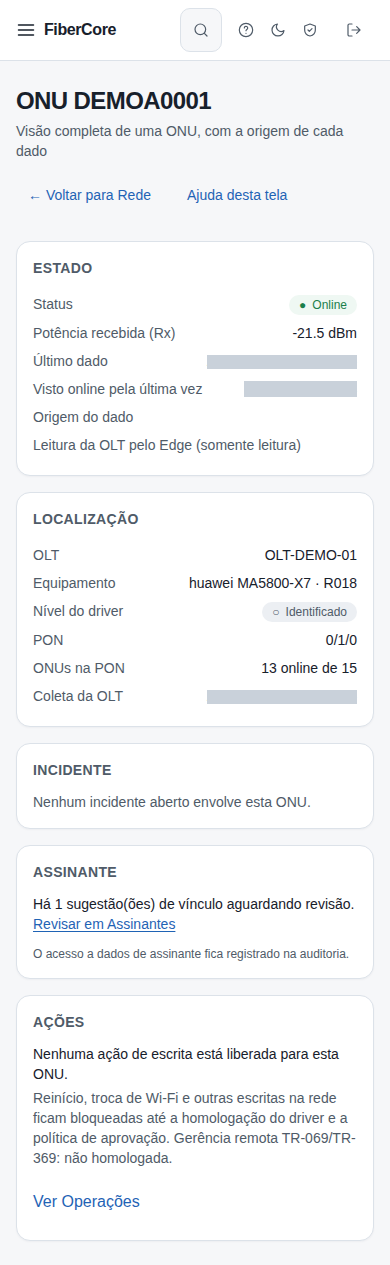
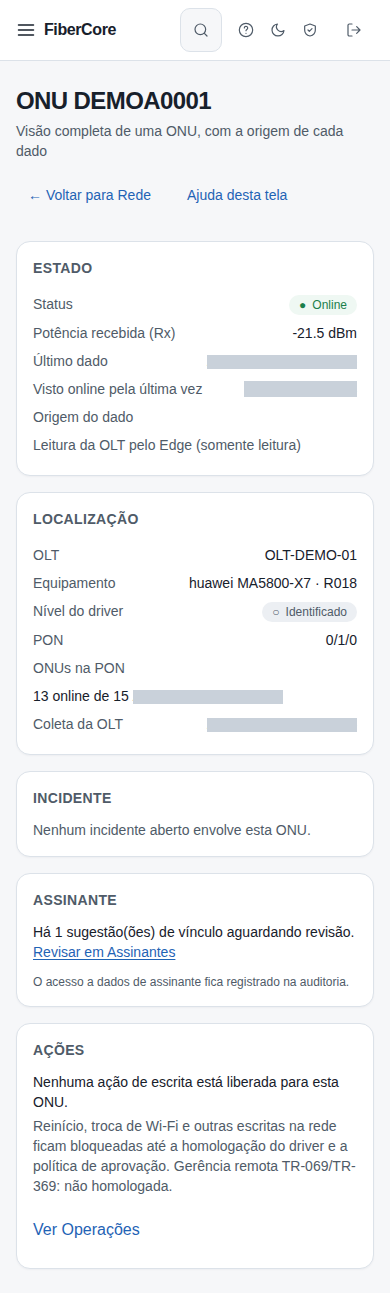
fix(api,web): contagem da PON na ONU 360 carrega a idade do dado (último estado conhecido)
Parecer do Codex (rodada 3).

Claude-Session: https://claude.ai/code/session_01G65B8a86N96ZoCrjd2Ad9b

diff --git a/apps/web/src/app/rede/onu/[id]/page.tsx b/apps/web/src/app/rede/onu/[id]/page.tsx
@@ -50,7 +50,7 @@ export default async function Onu360Page({ params }: { params: Promise<{ id: str
             <Row k="Equipamento">{o.olt.vendor} {o.olt.model ?? ""}{o.olt.firmware ? ` · ${o.olt.firmware}` : ""}</Row>
             <Row k="Nível do driver"><StatusPill value={o.olt.support_level} /></Row>
             <Row k="PON">{o.pon?.path ?? "—"}</Row>
-            {o.pon && <Row k="ONUs na PON">{o.pon.online} online de {o.pon.onus}</Row>}
+            {o.pon && <Row k="ONUs na PON"><span>{o.pon.online} online de {o.pon.onus}</span> <DataFreshness freshness={o.pon.freshness} observedAt={o.pon.observed_at} />{o.pon.freshness === "stale" && <span className="block text-xs text-warn">Último estado conhecido, não o atual.</span>}</Row>}
             <Row k="Coleta da OLT"><DataFreshness freshness={o.olt.freshness} observedAt={o.olt.observed_at} /></Row>
           </dl>
         </Card>

diff --git a/apps/web/src/lib/types.ts b/apps/web/src/lib/types.ts
@@ -11,7 +11,7 @@ export type Onu360 = {
   id: string; serial: string; status: string; rx_dbm: number | null; observed_at: string | null; freshness: string;
   last_online_at: string | null; down_since: string | null; source: string;
   olt: { id: string; name: string; vendor: string; model: string | null; firmware: string | null; support_level: string; observed_at: string | null; freshness: string };
-  pon: { path: string | null; onus: number; online: number } | null;
+  pon: { path: string | null; onus: number; online: number; observed_at: string | null; freshness: string } | null;
   incident: { id: string; kind: string; suspected_cause: string; opened_at: string } | null; incident_hidden: boolean;
 };
 export type OnuCustomer = { association: "approved" | "suggested" | "none"; pending_suggestions: number; display_name?: string; document_last4?: string | null; contract_status?: string };

diff --git a/apps/api/tests/test_onu360.py b/apps/api/tests/test_onu360.py
@@ -1,7 +1,7 @@
 """ONU 360: one ONU with its origin, PON context, open incident and (only for customers:read roles, audited) its subscriber."""
 from sqlalchemy import text
 
-from tests.conftest import agent, hdr, snap
+from tests.conftest import _now, agent, hdr, snap
 
 
 def _onu(client, h, serial):
@@ -29,7 +29,7 @@ def test_onu360_basic_with_pon_context_and_origin(client, seed, inv):
     d = client.get(f"/v1/onus/{u['id']}", headers=h).json()
     assert d["serial"] == "O360-1" and d["status"] == "online" and d["rx_dbm"] == -19.25 and d["freshness"] == "fresh"
     assert d["olt"]["name"] == "OLT-360" and d["olt"]["support_level"] == "observed"
-    assert d["pon"] == {"path": "0/3/0", "onus": 2, "online": 1}
+    assert (d["pon"]["path"], d["pon"]["onus"], d["pon"]["online"], d["pon"]["freshness"]) == ("0/3/0", 2, 1, "fresh")
     assert d["incident"] is None and d["incident_hidden"] is False and d["source"] == "olt_snapshot"
     assert "customer" not in d  # personal data never rides on the inventory route
 
@@ -96,3 +96,12 @@ def test_onu360_open_incident_and_tenant_isolation(client, seed, inv, migrated):
     assert client.get("/v1/onus/00000000-0000-0000-0000-000000000000", headers=ha).status_code == 404
     assert client.get("/v1/onus/not-a-uuid", headers=ha).status_code == 422
     assert client.get(f"/v1/onus/{onu['id']}", headers=agent(client, inv, "a1")).status_code == 403  # agents never read
+
+
+def test_pon_counts_carry_their_age_so_stale_is_not_shown_as_current(client, seed, inv):
+    old = snap(inv, name="OLT-360E", observed=_now(-3600), pons=[{"pon_path": "0/4/0", "status": "up"}],
+               onus=[{"serial": "O360-5", "pon_path": "0/4/0", "status": "online", "rx_dbm": -20.0}])
+    assert client.post("/v1/edge/olt-snapshots", headers=agent(client, inv, "a1"), json=old).status_code == 202
+    h = hdr(client, "alice", seed, "A")
+    d = client.get(f"/v1/onus/{_onu(client, h, 'O360-5')['id']}", headers=h).json()
+    assert d["pon"]["online"] == 1 and d["pon"]["freshness"] == "stale" and d["pon"]["observed_at"]

diff --git a/apps/api/app/api/inventory.py b/apps/api/app/api/inventory.py
@@ -326,10 +326,13 @@ def onu_360(
     pon = None
     if u.pon_id:
         t = conn.execute(
-            text("SELECT count(*) AS total, count(*) FILTER (WHERE status = 'online') AS online FROM onus WHERE pon_id = :p"),
+            text("SELECT count(*) AS total, count(*) FILTER (WHERE status = 'online') AS online, max(observed_at) AS seen "
+                 "FROM onus WHERE pon_id = :p"),
             {"p": u.pon_id},
         ).one()
-        pon = {"path": u.pon_path, "onus": t.total, "online": t.online}
+        # the counts are the LAST KNOWN state of the port, so they carry the age of the newest observation they rest on
+        pon = {"path": u.pon_path, "onus": t.total, "online": t.online,
+               "observed_at": t.seen.isoformat() if t.seen else None, "freshness": _fresh(t.seen)}
     can_incidents = p.can("incidents:read")
     inc = conn.execute(
         text(
